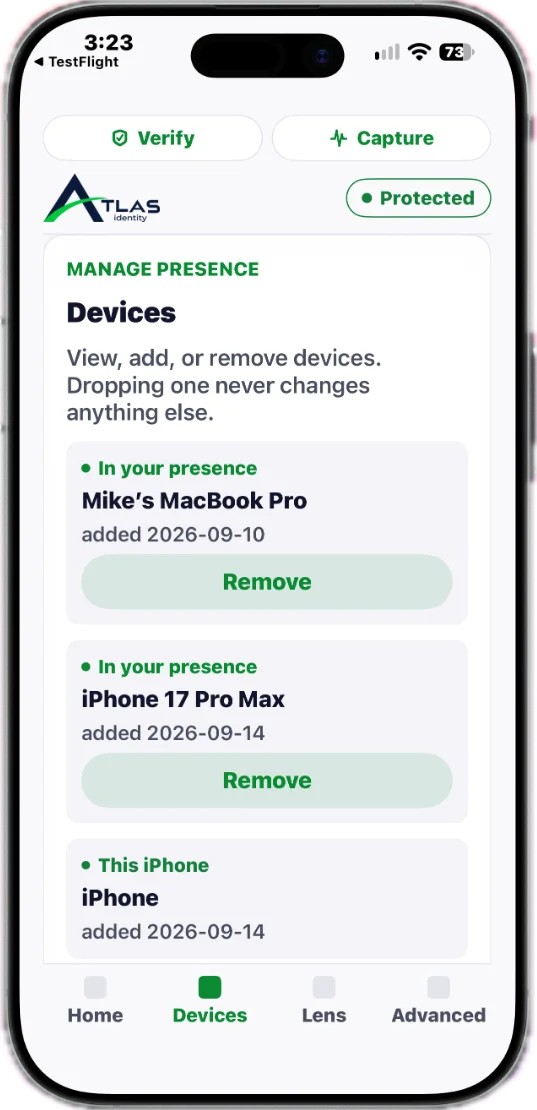
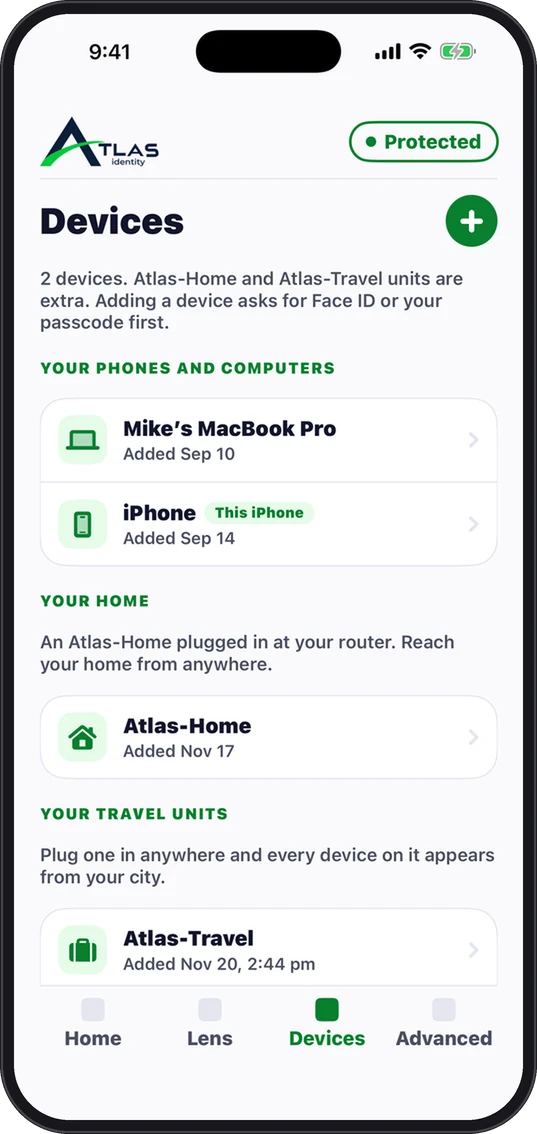
Home page: new app phone pictures; Mac badge is now a download link (#1156)

diff --git a/index.html b/index.html
@@ -186,13 +186,13 @@ setInterval(function(){if(hold||document.hidden)return;s[i].classList.remove('on
 <div class="avail-row" style="display: flex; gap: 12px; justify-content: flex-start; flex-wrap: wrap">
 <a href="https://apps.apple.com/us/app/atlas-identity/id6808464373" style="display: flex; align-items: center; justify-content: center; gap: 8px; width: 156px; height: 46px; box-sizing: border-box; padding: 0 8px; border: 1px solid #5A6690; border-radius: 10px; background: #000000; color: #FFFFFF; text-decoration: none" target="_blank" rel="noopener noreferrer"><picture style="display: block; width: 34px; height: 34px; overflow: hidden; border-radius: 8px"><source srcset="assets/brand/atlas-app-icon.webp" type="image/webp"><img loading="lazy" decoding="async" src="assets/brand/atlas-app-icon.png" alt="ATLAS identity app icon" width="160" height="160" style="display: block; width: 45px; max-width: none; height: auto; margin: -5.5px 0 0 -5.5px"></picture><span style="display: block; white-space: nowrap; text-align: left; font-size: 10px; line-height: 1.2; font-weight: 400">Download on the<br><b style="font-size: 15px; font-weight: 600">App Store</b></span></a>
 <a href="https://play.google.com/store/apps/details?id=com.layer9i.atlas" style="display: block; width: 156px; height: 46px; overflow: hidden; border-radius: 10px" target="_blank" rel="noopener noreferrer"><picture style="display: block"><source srcset="assets/brand/google-play-badge.webp" type="image/webp"><img loading="lazy" decoding="async" src="assets/brand/google-play-badge.png" alt="Get it on Google Play" width="646" height="250" style="display: block; width: 179px; max-width: none; height: auto; margin: -11.3px 0 0 -11.3px"></picture></a>
-<div style="display: flex; align-items: center; justify-content: center; gap: 8px; width: 156px; height: 46px; box-sizing: border-box; padding: 0 8px; border: 1px solid #5A6690; border-radius: 10px; background: #000000; color: #FFFFFF; text-decoration: none"><picture style="display: block; width: 34px; height: 34px; overflow: hidden; border-radius: 8px"><source srcset="assets/brand/atlas-app-icon.webp" type="image/webp"><img loading="lazy" decoding="async" src="assets/brand/atlas-app-icon.png" alt="ATLAS identity app icon" width="160" height="160" style="display: block; width: 45px; max-width: none; height: auto; margin: -5.5px 0 0 -5.5px"></picture><span style="display: block; white-space: nowrap; text-align: left; font-size: 10px; line-height: 1.2; font-weight: 400">Coming soon<br><b style="font-size: 15px; font-weight: 600">Mac</b></span></div>
+<a href="https://apps.apple.com/us/app/atlas-identity/id6808464373" style="display: flex; align-items: center; justify-content: center; gap: 8px; width: 156px; height: 46px; box-sizing: border-box; padding: 0 8px; border: 1px solid #5A6690; border-radius: 10px; background: #000000; color: #FFFFFF; text-decoration: none" target="_blank" rel="noopener noreferrer"><picture style="display: block; width: 34px; height: 34px; overflow: hidden; border-radius: 8px"><source srcset="assets/brand/atlas-app-icon.webp" type="image/webp"><img loading="lazy" decoding="async" src="assets/brand/atlas-app-icon.png" alt="ATLAS identity app icon" width="160" height="160" style="display: block; width: 45px; max-width: none; height: auto; margin: -5.5px 0 0 -5.5px"></picture><span style="display: block; white-space: nowrap; text-align: left; font-size: 10px; line-height: 1.2; font-weight: 400">Download for<br><b style="font-size: 15px; font-weight: 600">Mac</b></span></a>
 <a href="https://identity.layer9i.com/downloads.html" style="display: flex; align-items: center; justify-content: center; gap: 8px; width: 156px; height: 46px; box-sizing: border-box; padding: 0 8px; border: 1px solid #5A6690; border-radius: 10px; background: #000000; color: #FFFFFF; text-decoration: none" target="_blank" rel="noopener noreferrer"><picture style="display: block; width: 34px; height: 34px; overflow: hidden; border-radius: 8px"><source srcset="assets/brand/atlas-app-icon.webp" type="image/webp"><img loading="lazy" decoding="async" src="assets/brand/atlas-app-icon.png" alt="ATLAS identity app icon" width="160" height="160" style="display: block; width: 45px; max-width: none; height: auto; margin: -5.5px 0 0 -5.5px"></picture><span style="display: block; white-space: nowrap; text-align: left; font-size: 10px; line-height: 1.2; font-weight: 400">Download for<br><b style="font-size: 15px; font-weight: 600">Windows</b></span></a>
 </div></div>
 
 </div>
 <div class="hero-r" style="flex:0 1 400px; display:flex; flex-direction:column; align-items:stretch"><div class="stage" aria-label="ATLAS identity app screens">
-<img src="assets/home/phones-tilted-v2.webp" width="1036" height="924" loading="lazy" alt="ATLAS identity on iPhone: the Lens screen, Your paths, behind the Home screen showing Protected" style="display:block;width:100%;height:auto;filter:drop-shadow(0 26px 34px rgba(0,0,0,.5))">
+<img src="assets/home/phones-tilted-v2.webp" width="1036" height="924" loading="lazy" alt="ATLAS identity on iPhone: the Lens screen behind the Home screen showing Protected, with websites seeing you in New York" style="display:block;width:100%;height:auto;filter:drop-shadow(0 26px 34px rgba(0,0,0,.5))">
 </div>
 <div style="display:flex; flex-wrap:nowrap; gap:10px; margin-top:14px; justify-content:center"><a href="https://identity.layer9i.com/subscribe" style="background: linear-gradient(100deg, #009A00, #009A00 55%, #009A00);color: #050A1C; font-weight: 600; font-size: 15px; text-decoration: none; padding: 13px 20px; border-radius: 999px; text-align:center; white-space:nowrap">Subscribe $7.99/mo</a><a href="#get" style="border:1px solid #5A6690; color:#fff; font-weight:600; font-size:15px; text-decoration:none; padding:12px 20px; border-radius:999px; text-align:center; white-space:nowrap">Get the app</a></div>
 <p style="margin:10px 0 0; font-size:14px; color:#A9B4D6; text-align:center">Pay for your first month and get your second month free. On iPhone and Android.</p>
@@ -214,19 +214,19 @@ setInterval(function(){if(hold||document.hidden)return;s[i].classList.remove('on
 <div class="wrap">
 <h2 id="use-h" style="margin:0; text-align:center; font-size:clamp(34px,4.6vw,56px); line-height:1.08; font-weight:300; letter-spacing:-.02em">What you can do with <span style="font-weight:700">ATLAS identity.</span></h2>
 <div style="display:flex; gap:56px; align-items:center; justify-content:center; flex-wrap:wrap; margin-top:88px; flex-direction:row">
-<img class="row" loading="lazy" width="537" height="1110" src="assets/home/row-home.webp" alt="ATLAS identity home screen showing Protected, with Toronto as the default city and location confirmed">
+<img class="row" loading="lazy" width="537" height="1134" src="assets/home/row-home.webp" alt="ATLAS identity Home screen showing Protected, with websites seeing you in New York">
 <div style="flex:1 1 360px; max-width:520px"><h3 style="margin:0; font-size:40px; line-height:1.1; font-weight:700; letter-spacing:-.02em; color:#009A00">Travel</h3><p style="margin:10px 0 0; font-size:26px; line-height:1.2; font-weight:600; letter-spacing:-.01em; color:#fff">Away from home, still you.</p><p style="margin:14px 0 0; font-size:18px; line-height:1.55; color:#C9D3F2">Choose the location you appear from, so the sites you use see you from your usual place. The home screen tells you when you are protected and where you appear.</p></div>
 </div>
 <div style="display:flex; gap:56px; align-items:center; justify-content:center; flex-wrap:wrap; margin-top:88px; flex-direction:row-reverse">
-<img class="row" loading="lazy" width="534" height="1114" src="assets/home/row-lens.webp" alt="ATLAS identity Lens screen, Your paths">
+<img class="row" loading="lazy" width="537" height="1134" src="assets/home/row-lens.webp" alt="ATLAS identity Lens screen, a city for each persona">
 <div style="flex:1 1 360px; max-width:520px"><h3 style="margin:0; font-size:40px; line-height:1.1; font-weight:700; letter-spacing:-.02em; color:#009A00">Work and personal</h3><p style="margin:10px 0 0; font-size:26px; line-height:1.2; font-weight:600; letter-spacing:-.01em; color:#fff">Keep them apart.</p><p style="margin:14px 0 0; font-size:18px; line-height:1.55; color:#C9D3F2">A Business persona and a Personal persona, each with its own location. In Lens, send Personal through New York, Work through the Netherlands, and everything else through Toronto. Only the sites you list move; the rest stays on your normal connection.</p></div>
 </div>
 <div style="display:flex; gap:56px; align-items:center; justify-content:center; flex-wrap:wrap; margin-top:88px; flex-direction:row">
-<img class="row" loading="lazy" width="537" height="1110" src="assets/home/row-devices.webp" alt="ATLAS identity Devices screen listing devices and Add a device">
+<img class="row" loading="lazy" width="537" height="1134" src="assets/home/row-devices.webp" alt="ATLAS identity Devices screen listing your phones and computers, Atlas-Home and Atlas-Travel">
 <div style="flex:1 1 360px; max-width:520px"><h3 style="margin:0; font-size:40px; line-height:1.1; font-weight:700; letter-spacing:-.02em; color:#009A00">One account</h3><p style="margin:10px 0 0; font-size:26px; line-height:1.2; font-weight:600; letter-spacing:-.01em; color:#fff">Your whole family.</p><p style="margin:14px 0 0; font-size:18px; line-height:1.55; color:#C9D3F2">Add a phone, a tablet or a laptop in a minute. Individual covers 2 devices. Family covers 5.</p></div>
 </div>
 <div style="display:flex; gap:56px; align-items:center; justify-content:center; flex-wrap:wrap; margin-top:88px; flex-direction:row-reverse">
-<img class="row" loading="lazy" width="537" height="1114" src="assets/home/row-advanced.webp" alt="ATLAS identity Advanced screen showing protection on and ad and tracker cleaning">
+<img class="row" loading="lazy" width="537" height="1134" src="assets/home/row-advanced.webp" alt="ATLAS identity Advanced screen: cleaning what you visit, tools and help">
 <div style="flex:1 1 360px; max-width:520px"><h3 style="margin:0; font-size:40px; line-height:1.1; font-weight:700; letter-spacing:-.02em; color:#009A00">Clean DNS</h3><p style="margin:10px 0 0; font-size:26px; line-height:1.2; font-weight:600; letter-spacing:-.01em; color:#fff">Cleaner, and private by default.</p><p style="margin:14px 0 0; font-size:18px; line-height:1.55; color:#C9D3F2">We clean your DNS and keep no record of your lookups. Ad and tracker cleaning is in the app today.</p></div>
 </div>
 <div class="g3" style="display:grid; grid-template-columns:repeat(auto-fit,minmax(260px,1fr)); gap:32px; margin-top:96px">
@@ -377,7 +377,7 @@ setInterval(function(){if(hold||document.hidden)return;s[i].classList.remove('on
 <picture style="display: block"><source srcset="assets/brand/atlas-identity-logo.webp" type="image/webp"><img loading="lazy" decoding="async" src="assets/brand/atlas-identity-logo.png" alt="ATLAS identity" width="1569" height="657" style="display: block; margin: 0 auto; width: min(300px, 70vw); height: auto"></picture>
 <h2 id="join-h" class="h1" style="margin: 32px 0 0; font-size: 64px; font-weight: 300; letter-spacing: -0.02em">Be one of the first.</h2>
 <p style="margin: 32px 0 0; font-size: 20px; font-weight: 600; color: #FFFFFF">1. Download the app</p>
-<div class="dl-row" style="display: flex; gap: 20px; justify-content: center; align-items: center; flex-wrap: wrap; margin: 16px 0 0"><a href="https://apps.apple.com/us/app/atlas-identity/id6808464373" style="display: flex; align-items: center; justify-content: center; gap: 10px; margin-top: 0px; width: 200px; height: 60px; box-sizing: border-box; padding: 0 10px; border: 1px solid #FFFFFF; border-radius: 12px; background: #000000; color: #FFFFFF; text-decoration: none" target="_blank" rel="noopener noreferrer"><picture style="display: block; width: 52px; height: 52px; overflow: hidden; border-radius: 10px"><source srcset="assets/brand/atlas-app-icon.webp" type="image/webp"><img loading="lazy" decoding="async" src="assets/brand/atlas-app-icon.png" alt="ATLAS identity app icon" width="160" height="160" style="display: block; width: 68px; max-width: none; height: auto; margin: -8px 0 0 -8px"></picture><span style="display: block; white-space: nowrap; text-align: left; font-size: 12px; line-height: 1.2; font-weight: 400">Download on the<br><b style="font-size: 20px; font-weight: 600">App Store</b></span></a><a href="https://play.google.com/store/apps/details?id=com.layer9i.atlas" style="display: block; width: 200px; height: 60px; overflow: hidden; border-radius: 12px" target="_blank" rel="noopener noreferrer"><picture style="display: block"><source srcset="assets/brand/google-play-badge.webp" type="image/webp"><img loading="lazy" decoding="async" src="assets/brand/google-play-badge.png" alt="Get it on Google Play" width="646" height="250" style="display: block; width: 229px; max-width: none; height: auto; margin: -14px 0 0 -14px"></picture></a><div style="display: flex; align-items: center; justify-content: center; gap: 10px; margin-top: 0px; width: 200px; height: 60px; box-sizing: border-box; padding: 0 10px; border: 1px solid #FFFFFF; border-radius: 12px; background: #000000; color: #FFFFFF; text-decoration: none"><picture style="display: block; width: 52px; height: 52px; overflow: hidden; border-radius: 10px"><source srcset="assets/brand/atlas-app-icon.webp" type="image/webp"><img loading="lazy" decoding="async" src="assets/brand/atlas-app-icon.png" alt="ATLAS identity app icon" width="160" height="160" style="display: block; width: 68px; max-width: none; height: auto; margin: -8px 0 0 -8px"></picture><span style="display: block; white-space: nowrap; text-align: left; font-size: 12px; line-height: 1.2; font-weight: 400">Coming soon<br><b style="font-size: 19px; font-weight: 600">Mac</b></span></div><a href="https://identity.layer9i.com/downloads.html" style="display: flex; align-items: center; justify-content: center; gap: 10px; margin-top: 0px; width: 200px; height: 60px; box-sizing: border-box; padding: 0 10px; border: 1px solid #FFFFFF; border-radius: 12px; background: #000000; color: #FFFFFF; text-decoration: none" target="_blank" rel="noopener noreferrer"><picture style="display: block; width: 52px; height: 52px; overflow: hidden; border-radius: 10px"><source srcset="assets/brand/atlas-app-icon.webp" type="image/webp"><img loading="lazy" decoding="async" src="assets/brand/atlas-app-icon.png" alt="ATLAS identity app icon" width="160" height="160" style="display: block; width: 68px; max-width: none; height: auto; margin: -8px 0 0 -8px"></picture><span style="display: block; white-space: nowrap; text-align: left; font-size: 12px; line-height: 1.2; font-weight: 400">Download for<br><b style="font-size: 19px; font-weight: 600">Windows</b></span></a></div>
+<div class="dl-row" style="display: flex; gap: 20px; justify-content: center; align-items: center; flex-wrap: wrap; margin: 16px 0 0"><a href="https://apps.apple.com/us/app/atlas-identity/id6808464373" style="display: flex; align-items: center; justify-content: center; gap: 10px; margin-top: 0px; width: 200px; height: 60px; box-sizing: border-box; padding: 0 10px; border: 1px solid #FFFFFF; border-radius: 12px; background: #000000; color: #FFFFFF; text-decoration: none" target="_blank" rel="noopener noreferrer"><picture style="display: block; width: 52px; height: 52px; overflow: hidden; border-radius: 10px"><source srcset="assets/brand/atlas-app-icon.webp" type="image/webp"><img loading="lazy" decoding="async" src="assets/brand/atlas-app-icon.png" alt="ATLAS identity app icon" width="160" height="160" style="display: block; width: 68px; max-width: none; height: auto; margin: -8px 0 0 -8px"></picture><span style="display: block; white-space: nowrap; text-align: left; font-size: 12px; line-height: 1.2; font-weight: 400">Download on the<br><b style="font-size: 20px; font-weight: 600">App Store</b></span></a><a href="https://play.google.com/store/apps/details?id=com.layer9i.atlas" style="display: block; width: 200px; height: 60px; overflow: hidden; border-radius: 12px" target="_blank" rel="noopener noreferrer"><picture style="display: block"><source srcset="assets/brand/google-play-badge.webp" type="image/webp"><img loading="lazy" decoding="async" src="assets/brand/google-play-badge.png" alt="Get it on Google Play" width="646" height="250" style="display: block; width: 229px; max-width: none; height: auto; margin: -14px 0 0 -14px"></picture></a><a href="https://apps.apple.com/us/app/atlas-identity/id6808464373" style="display: flex; align-items: center; justify-content: center; gap: 10px; margin-top: 0px; width: 200px; height: 60px; box-sizing: border-box; padding: 0 10px; border: 1px solid #FFFFFF; border-radius: 12px; background: #000000; color: #FFFFFF; text-decoration: none" target="_blank" rel="noopener noreferrer"><picture style="display: block; width: 52px; height: 52px; overflow: hidden; border-radius: 10px"><source srcset="assets/brand/atlas-app-icon.webp" type="image/webp"><img loading="lazy" decoding="async" src="assets/brand/atlas-app-icon.png" alt="ATLAS identity app icon" width="160" height="160" style="display: block; width: 68px; max-width: none; height: auto; margin: -8px 0 0 -8px"></picture><span style="display: block; white-space: nowrap; text-align: left; font-size: 12px; line-height: 1.2; font-weight: 400">Download for<br><b style="font-size: 19px; font-weight: 600">Mac</b></span></a><a href="https://identity.layer9i.com/downloads.html" style="display: flex; align-items: center; justify-content: center; gap: 10px; margin-top: 0px; width: 200px; height: 60px; box-sizing: border-box; padding: 0 10px; border: 1px solid #FFFFFF; border-radius: 12px; background: #000000; color: #FFFFFF; text-decoration: none" target="_blank" rel="noopener noreferrer"><picture style="display: block; width: 52px; height: 52px; overflow: hidden; border-radius: 10px"><source srcset="assets/brand/atlas-app-icon.webp" type="image/webp"><img loading="lazy" decoding="async" src="assets/brand/atlas-app-icon.png" alt="ATLAS identity app icon" width="160" height="160" style="display: block; width: 68px; max-width: none; height: auto; margin: -8px 0 0 -8px"></picture><span style="display: block; white-space: nowrap; text-align: left; font-size: 12px; line-height: 1.2; font-weight: 400">Download for<br><b style="font-size: 19px; font-weight: 600">Windows</b></span></a></div>
 <p style="margin: 10px 0 0; font-size: 15px; color: #C9D3F2">Android: <a href="https://play.google.com/store/apps/details?id=com.layer9i.atlas" style="color: #FFFFFF" target="_blank" rel="noopener noreferrer">ATLAS identity on Google Play</a>. iPhone: <a href="https://apps.apple.com/us/app/atlas-identity/id6808464373" style="color: #FFFFFF" target="_blank" rel="noopener noreferrer">ATLAS identity on the App Store</a>.</p>
 <a href="https://identity.layer9i.com/get.html" style="display: inline-block; margin: 28px auto 0; height: 58px; line-height: 58px; padding: 0 34px; border-radius: 999px; background: linear-gradient(100deg, #009A00, #009A00 55%, #009A00);color: #050A1C; font-weight: 600; font-size: 17px; text-decoration: none">Get ATLAS identity</a>
 <p style="margin: 14px 0 0; font-size: 15px; color: #C9D3F2">iPhone, iPad, Mac and Windows: sign up with your email.</p>
